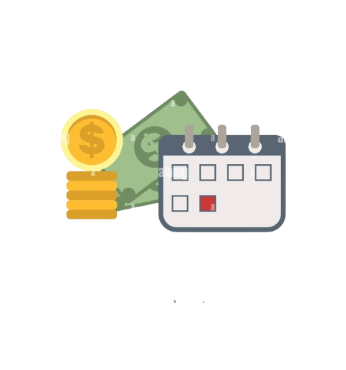
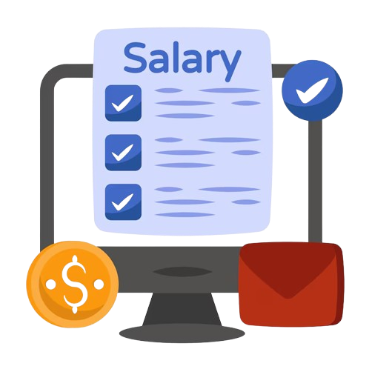
Added sample images

diff --git a/src/pages/core-hr/EmployeeList.jsx b/src/pages/core-hr/EmployeeList.jsx
@@ -5,7 +5,6 @@ import {
   Code2, Palette, TrendingUp, Wallet, Headphones, Megaphone, Scale, Settings2,
   MapPin, Calendar, Briefcase, Sparkles
 } from 'lucide-react'
-import Avatar from '@/components/ui/Avatar'
 import Badge from '@/components/ui/Badge'
 import Spinner from '@/components/ui/Spinner'
 import { employeeService, departmentService } from '@/services/employeeService'
@@ -18,7 +17,6 @@ const STATUS_BADGE = {
   inactive:  { label:'Inactive',  variant:'gray'   },
 }
 
-// Department → icon + gradient mapping (matches by keyword, case-insensitive)
 const DEPT_STYLES = [
   { match:/engineer|tech|dev/i,        icon:Code2,      grad:'from-blue-500 to-cyan-400',     bg:'bg-blue-50',    text:'text-blue-600'   },
   { match:/design|ux|ui/i,             icon:Palette,    grad:'from-pink-500 to-rose-400',     bg:'bg-pink-50',    text:'text-pink-600'   },
@@ -34,6 +32,62 @@ function getDeptStyle(deptName = '') {
   return DEPT_STYLES.find(s => s.match.test(deptName)) || {
     icon: Briefcase, grad:'from-slate-500 to-slate-400', bg:'bg-slate-100', text:'text-slate-600',
   }
+}
+
+/**
+ * Real sample photos from randomuser.me.
+ * - Uses emp.avatar if the backend provides one.
+ * - Otherwise picks a deterministic real photo based on a hash of the name.
+ *   randomuser.me serves 100 male + 100 female portrait photos (seed 1-99).
+ *   We alternate gender by first-letter parity so the directory looks diverse.
+ */
+function hashCode(str) {
+  let h = 0
+  for (let i = 0; i < str.length; i++) h = (Math.imul(31, h) + str.charCodeAt(i)) | 0
+  return Math.abs(h)
+}
+
+function getAvatarUrl(emp) {
+  if (emp.avatar) return emp.avatar
+  const seed   = hashCode(`${emp.firstName}${emp.lastName}`)
+  const num    = (seed % 70) + 1          // 1-70, plenty of variety
+  const gender = seed % 2 === 0 ? 'men' : 'women'
+  return `https://randomuser.me/api/portraits/${gender}/${num}.jpg`
+}
+
+/** Inline avatar component — no dependency on the old Avatar component */
+function EmpAvatar({ emp, size = 'md' }) {
+  const url = getAvatarUrl(emp)
+  const name = `${emp.firstName} ${emp.lastName}`
+
+  const sizeClass = {
+    sm:  'w-10 h-10 text-sm',   // 40px  (was ~28px)
+    md:  'w-14 h-14 text-base', // 56px  (was ~36px)
+    lg:  'w-20 h-20 text-xl',   // 80px
+  }[size] ?? 'w-14 h-14'
+
+  return (
+    <div className={`${sizeClass} rounded-full overflow-hidden ring-2 ring-white shadow-md flex-shrink-0 bg-slate-100`}>
+      <img
+        src={url}
+        alt={name}
+        className="w-full h-full object-cover"
+        onError={e => {
+          // Fallback to initials if image fails
+          e.currentTarget.style.display = 'none'
+          e.currentTarget.nextSibling?.style && (e.currentTarget.nextSibling.style.display = 'flex')
+        }}
+      />
+      {/* Initials fallback (hidden by default) */}
+      <div
+        aria-hidden="true"
+        style={{ display:'none' }}
+        className={`${sizeClass} rounded-full bg-gradient-to-br from-slate-400 to-slate-600 items-center justify-center font-700 text-white absolute inset-0`}
+      >
+        {name.split(' ').map(n => n[0]).join('').slice(0,2).toUpperCase()}
+      </div>
+    </div>
+  )
 }
 
 export default function EmployeeList() {
@@ -114,7 +168,6 @@ export default function EmployeeList() {
           />
         </div>
 
-        {/* Dept filter chips with icons */}
         <div className="flex gap-1.5 flex-wrap">
           <button
             onClick={() => handleDeptFilter('')}
@@ -168,25 +221,22 @@ export default function EmployeeList() {
                   className={`relative rounded-xl p-4 cursor-pointer overflow-hidden border border-white/60
                     bg-gradient-to-br ${style.bg} via-white to-white
                     hover:shadow-card-hover hover:-translate-y-0.5 transition-all duration-200 group`}
-                  style={{ backgroundImage: `linear-gradient(135deg, var(--tw-gradient-stops))` }}
                 >
-
-                  {/* Soft gradient wash background */}
+                  {/* Soft gradient wash */}
                   <div className={`absolute inset-0 bg-gradient-to-br ${style.grad} opacity-[0.06] group-hover:opacity-[0.1] transition-opacity`}/>
-
-                  {/* Top gradient accent bar */}
+                  {/* Top accent bar */}
                   <div className={`absolute top-0 left-0 right-0 h-1 bg-gradient-to-r ${style.grad}`}/>
-
-                  {/* Glow blob top right */}
+                  {/* Glow blobs */}
                   <div className={`absolute -top-6 -right-6 w-24 h-24 rounded-full bg-gradient-to-br ${style.grad} opacity-[0.12] blur-2xl group-hover:opacity-20 transition-opacity`}/>
-
-                  {/* Glow blob bottom left */}
                   <div className={`absolute -bottom-8 -left-8 w-20 h-20 rounded-full bg-gradient-to-tr ${style.grad} opacity-[0.08] blur-2xl`}/>
 
+                  {/* Avatar row */}
                   <div className="relative flex items-start justify-between mb-3 z-10">
                     <div className="relative">
+                      {/* Glow behind avatar */}
                       <div className={`absolute inset-0 rounded-full bg-gradient-to-br ${style.grad} opacity-20 blur-md scale-110`}/>
-                      <Avatar name={fullName(emp)} src={emp.avatar} size="md"/>
+                      <EmpAvatar emp={emp} size="md" />
+                      {/* Dept icon badge */}
                       <div className={`absolute -bottom-1 -right-1 w-5 h-5 rounded-full bg-gradient-to-br ${style.grad} flex items-center justify-center ring-2 ring-white shadow-sm`}>
                         <Icon size={10} className="text-white"/>
                       </div>
@@ -228,6 +278,7 @@ export default function EmployeeList() {
             })}
           </div>
         ) : (
+          /* Table view */
           <div className="bg-white border border-border rounded-xl overflow-hidden shadow-sm">
             <table className="w-full text-xs">
               <thead>
@@ -245,11 +296,12 @@ export default function EmployeeList() {
                     <tr key={emp._id} onClick={() => navigate(`/core-hr/${emp._id}`)}
                       className="hover:bg-slate-50/80 cursor-pointer transition-colors group">
                       <td className="px-4 py-3">
-                        <div className="flex items-center gap-2.5">
-                          <div className="relative">
-                            <Avatar name={fullName(emp)} src={emp.avatar} size="sm"/>
-                            <div className={`absolute -bottom-0.5 -right-0.5 w-3.5 h-3.5 rounded-full bg-gradient-to-br ${style.grad} flex items-center justify-center ring-2 ring-white`}>
-                              <Icon size={7} className="text-white"/>
+                        <div className="flex items-center gap-3">
+                          {/* Larger avatar in table too */}
+                          <div className="relative flex-shrink-0">
+                            <EmpAvatar emp={emp} size="sm" />
+                            <div className={`absolute -bottom-0.5 -right-0.5 w-4 h-4 rounded-full bg-gradient-to-br ${style.grad} flex items-center justify-center ring-2 ring-white`}>
+                              <Icon size={8} className="text-white"/>
                             </div>
                           </div>
                           <div>

diff --git a/src/pages/dashboard/HRDashboard.jsx b/src/pages/dashboard/HRDashboard.jsx
@@ -22,8 +22,8 @@ import notInOfficeImg   from '@/assets/dashboard/absent.png'
 import leaveBalancesImg from '@/assets/dashboard/outofoffice.png'
 import projectTimeImg   from '@/assets/dashboard/project.png'
 import salaryUpdateImg  from '@/assets/dashboard/salary.png'
-import appraisalImg     from '@/assets/dashboard/welcome.png'
-import goalsImg         from '@/assets/dashboard/welcome.png'
+import appraisalImg     from '@/assets/dashboard/appraisal.png'
+import goalsImg         from '@/assets/dashboard/goals.png'
 
 // Quick-access card data
 const absent = [